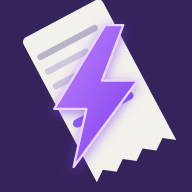
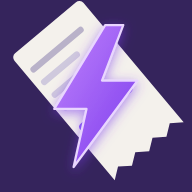
アイコンの領収書の傾きを-40°に
Claude-Session: https://claude.ai/code/session_01M7TmCoUV6As5ur3WRm9Z6P

diff --git a/docs/index.html b/docs/index.html
@@ -592,7 +592,7 @@ const DRAFT_IMAGE_ID = "__draft__";
 const CROP_DRAFT_IMAGE_ID = "__crop_draft__"; // トリミング前の選択写真（リロード復元用）
 const DEFAULT_MODEL = "gpt-5.4";
 // UIに関わる変更をpushするたびに更新する（設定タブに表示。キャッシュで旧版が出ていないかの確認用）
-const APP_VERSION = "2026-07-08.20 アイコンの傾きをさらに強く";
+const APP_VERSION = "2026-07-08.21 アイコンの傾き-40°";
 
 // OCRプロンプト: ExpenseVBA(modReceiptOCR.bas)と同一文言。抽出品質を揃えるため変更時は両方を同期すること
 const PROMPT = [